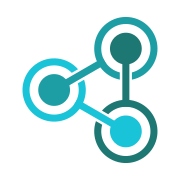
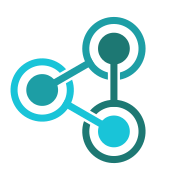
Refresh branding and docs links
Updates the Smart Checkpoints branding across the site with a new mark, refreshed SVG and PNG assets, and synchronized app/public icons. This also adds exported brand files and a short README describing the generated assets and source-of-truth workflow. The footer documentation links were updated to point at the current documentation pages for introduction, quickstart, distance drivers, and the REST API.

Changed region(s): [[0.0556, 0.0833, 0.8889, 0.9167]]

diff --git a/src/components/LogoMark.tsx b/src/components/LogoMark.tsx
@@ -33,8 +33,8 @@ const DOT_R = 11.3;
 /** The wordmark, set in the display face and flattened to outlines so it never
  *  waits on a webfont and never reflows the header. */
 const WORDMARK = [
-  { d: "M13.13 0.60Q9.69 0.60 7.06-0.64Q4.42-1.87 2.93-4.16Q1.45-6.46 1.45-9.69L1.45-10.88L6.97-10.88L6.97-9.69Q6.97-7.01 8.63-5.67Q10.29-4.33 13.13-4.33Q16.02-4.33 17.45-5.48Q18.87-6.63 18.87-8.42Q18.87-9.65 18.17-10.41Q17.47-11.18 16.13-11.67Q14.79-12.16 12.88-12.58L11.90-12.79Q8.84-13.47 6.65-14.51Q4.46-15.56 3.29-17.26Q2.13-18.96 2.13-21.68Q2.13-24.40 3.42-26.33Q4.72-28.26 7.08-29.30Q9.44-30.35 12.62-30.35Q15.81-30.35 18.30-29.26Q20.78-28.18 22.21-26.03Q23.63-23.89 23.63-20.66L23.63-19.38L18.11-19.38L18.11-20.66Q18.11-22.36 17.45-23.40Q16.79-24.44 15.56-24.93Q14.32-25.42 12.62-25.42Q10.07-25.42 8.86-24.46Q7.65-23.50 7.65-21.85Q7.65-20.74 8.22-19.98Q8.80-19.21 9.95-18.70Q11.09-18.19 12.88-17.81L13.86-17.60Q17.04-16.92 19.40-15.85Q21.76-14.79 23.08-13.05Q24.40-11.31 24.40-8.59Q24.40-5.87 23.01-3.80Q21.63-1.74 19.10-0.57Q16.58 0.60 13.13 0.60M33.49 0L28.05 0L28.05-29.75L38.46-29.75L43.61-3.83L44.37-3.83L49.51-29.75L59.92-29.75L59.92 0L54.48 0L54.48-25.63L53.72-25.63L48.62 0L39.35 0L34.25-25.63L33.49-25.63M68.77 0L62.98 0L70.81-29.75L80.58-29.75L88.40 0L82.62 0L81-6.55L70.38-6.55L68.77 0M75.31-26.22L71.70-11.73L79.69-11.73L76.08-26.22M97.07 0L91.46 0L91.46-29.75L104.38-29.75Q107.19-29.75 109.27-28.77Q111.35-27.80 112.50-26.01Q113.65-24.23 113.65-21.80L113.65-21.29Q113.65-18.62 112.37-16.96Q111.09-15.30 109.22-14.54L109.22-13.77Q110.93-13.69 111.86-12.60Q112.80-11.52 112.80-9.73L112.80 0L107.19 0L107.19-8.93Q107.19-9.95 106.65-10.58Q106.12-11.22 104.89-11.22L97.07-11.22L97.07 0M97.07-24.65L97.07-16.32L103.78-16.32Q105.78-16.32 106.91-17.40Q108.03-18.49 108.03-20.27L108.03-20.70Q108.03-22.48 106.93-23.57Q105.83-24.65 103.78-24.65M130.31 0L124.69 0L124.69-24.65L116.02-24.65L116.02-29.75L138.97-29.75L138.97-24.65L130.31-24.65", x: 110.77, y: 38.81 },
-  { d: "M14.11 0.60Q8.59 0.60 5.36-2.49Q2.13-5.57 2.13-11.31L2.13-18.45Q2.13-24.18 5.36-27.26Q8.59-30.35 14.11-30.35Q19.59-30.35 22.59-27.35Q25.59-24.35 25.59-19.12L25.59-18.87L20.06-18.87L20.06-19.30Q20.06-21.93 18.59-23.63Q17.13-25.33 14.11-25.33Q11.14-25.33 9.44-23.50Q7.74-21.68 7.74-18.53L7.74-11.22Q7.74-8.12 9.44-6.27Q11.14-4.42 14.11-4.42Q17.13-4.42 18.59-6.14Q20.06-7.86 20.06-10.46L20.06-11.22L25.59-11.22L25.59-10.62Q25.59-5.40 22.59-2.40Q19.59 0.60 14.11 0.60M35.27 0L29.66 0L29.66-29.75L35.27-29.75L35.27-17.47L46.33-17.47L46.33-29.75L51.94-29.75L51.94 0L46.33 0L46.33-12.37L35.27-12.37M76.41 0L57.03 0L57.03-29.75L76.16-29.75L76.16-24.65L62.64-24.65L62.64-17.55L74.97-17.55L74.97-12.45L62.64-12.45L62.64-5.10L76.41-5.10M91.38 0.60Q85.85 0.60 82.62-2.49Q79.39-5.57 79.39-11.31L79.39-18.45Q79.39-24.18 82.62-27.26Q85.85-30.35 91.38-30.35Q96.86-30.35 99.85-27.35Q102.85-24.35 102.85-19.12L102.85-18.87L97.33-18.87L97.33-19.30Q97.33-21.93 95.86-23.63Q94.39-25.33 91.38-25.33Q88.40-25.33 86.70-23.50Q85-21.68 85-18.53L85-11.22Q85-8.12 86.70-6.27Q88.40-4.42 91.38-4.42Q94.39-4.42 95.86-6.14Q97.33-7.86 97.33-10.46L97.33-11.22L102.85-11.22L102.85-10.62Q102.85-5.40 99.85-2.40Q96.86 0.60 91.38 0.60M112.54 0L106.93 0L106.93-29.75L112.54-29.75L112.54-17.94L113.31-17.94L122.95-29.75L130.13-29.75L117.72-15.09L130.56 0L123.17 0L113.31-12.07L112.54-12.07M138.63 0L133.03 0L133.03-29.75L145.26-29.75Q148.07-29.75 150.22-28.62Q152.36-27.50 153.57-25.46Q154.78-23.42 154.78-20.61L154.78-20.02Q154.78-17.26 153.53-15.19Q152.28-13.13 150.13-12.01Q147.99-10.88 145.26-10.88L138.63-10.88L138.63 0M138.63-24.65L138.63-15.98L144.71-15.98Q146.71-15.98 147.94-17.09Q149.18-18.19 149.18-20.10L149.18-20.53Q149.18-22.44 147.94-23.55Q146.71-24.65 144.71-24.65M169.75 0.60Q164.13 0.60 160.82-2.49Q157.50-5.57 157.50-11.31L157.50-18.45Q157.50-24.18 160.82-27.26Q164.13-30.35 169.75-30.35Q175.35-30.35 178.67-27.26Q181.98-24.18 181.98-18.45L181.98-11.31Q181.98-5.57 178.67-2.49Q175.35 0.60 169.75 0.60M169.75-4.42Q172.89-4.42 174.63-6.25Q176.38-8.08 176.38-11.14L176.38-18.62Q176.38-21.68 174.63-23.50Q172.89-25.33 169.75-25.33Q166.64-25.33 164.88-23.50Q163.12-21.68 163.12-18.62L163.12-11.14Q163.12-8.08 164.88-6.25Q166.64-4.42 169.75-4.42M192.01 0L186.41 0L186.41-29.75L192.01-29.75M202.64 0L197.12 0L197.12-29.75L207.78-29.75L213.69-3.83L214.46-3.83L214.46-29.75L219.98-29.75L219.98 0L209.31 0L203.41-25.93L202.64-25.93M237.58 0L231.97 0L231.97-24.65L223.30-24.65L223.30-29.75L246.25-29.75L246.25-24.65L237.58-24.65M259.89 0.60Q256.44 0.60 253.81-0.64Q251.17-1.87 249.69-4.16Q248.20-6.46 248.20-9.69L248.20-10.88L253.72-10.88L253.72-9.69Q253.72-7.01 255.38-5.67Q257.04-4.33 259.89-4.33Q262.78-4.33 264.20-5.48Q265.63-6.63 265.63-8.42Q265.63-9.65 264.92-10.41Q264.22-11.18 262.88-11.67Q261.55-12.16 259.63-12.58L258.65-12.79Q255.59-13.47 253.41-14.51Q251.22-15.56 250.05-17.26Q248.88-18.96 248.88-21.68Q248.88-24.40 250.18-26.33Q251.47-28.26 253.83-29.30Q256.19-30.35 259.38-30.35Q262.56-30.35 265.05-29.26Q267.54-28.18 268.96-26.03Q270.38-23.89 270.38-20.66L270.38-19.38L264.86-19.38L264.86-20.66Q264.86-22.36 264.20-23.40Q263.54-24.44 262.31-24.93Q261.08-25.42 259.38-25.42Q256.83-25.42 255.62-24.46Q254.41-23.50 254.41-21.85Q254.41-20.74 254.98-19.98Q255.55-19.21 256.70-18.70Q257.85-18.19 259.63-17.81L260.61-17.60Q263.80-16.92 266.16-15.85Q268.51-14.79 269.83-13.05Q271.15-11.31 271.15-8.59Q271.15-5.87 269.77-3.80Q268.39-1.74 265.86-0.57Q263.33 0.60 259.89 0.60", x: 110.08, y: 87.23 },
+  { d: "M13.13 0.6L13.13 0.6Q9.69 0.6 7.06-0.64Q4.42-1.87 2.93-4.17Q1.45-6.46 1.45-9.69L1.45-9.69L1.45-10.88L6.97-10.88L6.97-9.69Q6.97-7.01 8.63-5.67Q10.29-4.33 13.13-4.33L13.13-4.33Q16.02-4.33 17.45-5.48Q18.87-6.63 18.87-8.42L18.87-8.42Q18.87-9.65 18.17-10.41Q17.47-11.18 16.13-11.67Q14.79-12.16 12.88-12.58L12.88-12.58L11.9-12.79Q8.84-13.47 6.65-14.51Q4.46-15.56 3.29-17.26Q2.13-18.96 2.13-21.68L2.13-21.68Q2.13-24.4 3.42-26.33Q4.72-28.26 7.08-29.3Q9.44-30.35 12.62-30.35L12.62-30.35Q15.81-30.35 18.3-29.26Q20.78-28.18 22.21-26.03Q23.63-23.89 23.63-20.66L23.63-20.66L23.63-19.38L18.11-19.38L18.11-20.66Q18.11-22.36 17.45-23.4Q16.79-24.44 15.56-24.93Q14.32-25.42 12.62-25.42L12.62-25.42Q10.07-25.42 8.86-24.46Q7.65-23.5 7.65-21.85L7.65-21.85Q7.65-20.74 8.22-19.98Q8.8-19.21 9.95-18.7Q11.09-18.19 12.88-17.81L12.88-17.81L13.86-17.6Q17.04-16.92 19.4-15.85Q21.76-14.79 23.08-13.05Q24.4-11.31 24.4-8.59L24.4-8.59Q24.4-5.87 23.01-3.8Q21.63-1.74 19.1-0.57Q16.58 0.6 13.13 0.6M33.49 0L28.05 0L28.05-29.75L38.46-29.75L43.61-3.83L44.37-3.83L49.51-29.75L59.92-29.75L59.92 0L54.48 0L54.48-25.63L53.72-25.63L48.62 0L39.35 0L34.25-25.63L33.49-25.63L33.49 0M68.77 0L62.98 0L70.81-29.75L80.58-29.75L88.4 0L82.62 0L81-6.55L70.38-6.55L68.77 0M75.31-26.22L71.7-11.73L79.69-11.73L76.08-26.22L75.31-26.22M97.07 0L91.46 0L91.46-29.75L104.38-29.75Q107.19-29.75 109.27-28.77Q111.35-27.8 112.5-26.01Q113.65-24.23 113.65-21.8L113.65-21.8L113.65-21.29Q113.65-18.62 112.37-16.96Q111.09-15.3 109.22-14.54L109.22-14.54L109.22-13.77Q110.93-13.69 111.86-12.6Q112.8-11.52 112.8-9.73L112.8-9.73L112.8 0L107.19 0L107.19-8.93Q107.19-9.95 106.65-10.58Q106.12-11.22 104.89-11.22L104.89-11.22L97.07-11.22L97.07 0M97.07-24.65L97.07-16.32L103.78-16.32Q105.78-16.32 106.91-17.4Q108.03-18.49 108.03-20.27L108.03-20.27L108.03-20.7Q108.03-22.48 106.93-23.57Q105.83-24.65 103.78-24.65L103.78-24.65L97.07-24.65M130.31 0L124.69 0L124.69-24.65L116.02-24.65L116.02-29.75L138.97-29.75L138.97-24.65L130.31-24.65L130.31 0", x: 110.77, y: 38.81 },
+  { d: "M14.11 0.6L14.11 0.6Q8.59 0.6 5.36-2.49Q2.13-5.57 2.13-11.31L2.13-11.31L2.13-18.45Q2.13-24.18 5.36-27.26Q8.59-30.35 14.11-30.35L14.11-30.35Q19.59-30.35 22.59-27.35Q25.59-24.35 25.59-19.13L25.59-19.13L25.59-18.87L20.06-18.87L20.06-19.3Q20.06-21.93 18.59-23.63Q17.13-25.33 14.11-25.33L14.11-25.33Q11.14-25.33 9.44-23.5Q7.74-21.68 7.74-18.53L7.74-18.53L7.74-11.22Q7.74-8.12 9.44-6.27Q11.14-4.42 14.11-4.42L14.11-4.42Q17.13-4.42 18.59-6.14Q20.06-7.86 20.06-10.46L20.06-10.46L20.06-11.22L25.59-11.22L25.59-10.63Q25.59-5.4 22.59-2.4Q19.59 0.6 14.11 0.6M35.27 0L29.66 0L29.66-29.75L35.27-29.75L35.27-17.47L46.33-17.47L46.33-29.75L51.94-29.75L51.94 0L46.33 0L46.33-12.37L35.27-12.37L35.27 0M76.41 0L57.03 0L57.03-29.75L76.16-29.75L76.16-24.65L62.64-24.65L62.64-17.55L74.97-17.55L74.97-12.45L62.64-12.45L62.64-5.1L76.41-5.1L76.41 0M91.38 0.6L91.38 0.6Q85.85 0.6 82.62-2.49Q79.39-5.57 79.39-11.31L79.39-11.31L79.39-18.45Q79.39-24.18 82.62-27.26Q85.85-30.35 91.38-30.35L91.38-30.35Q96.86-30.35 99.85-27.35Q102.85-24.35 102.85-19.13L102.85-19.13L102.85-18.87L97.33-18.87L97.33-19.3Q97.33-21.93 95.86-23.63Q94.39-25.33 91.38-25.33L91.38-25.33Q88.4-25.33 86.7-23.5Q85-21.68 85-18.53L85-18.53L85-11.22Q85-8.12 86.7-6.27Q88.4-4.42 91.38-4.42L91.38-4.42Q94.39-4.42 95.86-6.14Q97.33-7.86 97.33-10.46L97.33-10.46L97.33-11.22L102.85-11.22L102.85-10.63Q102.85-5.4 99.85-2.4Q96.86 0.6 91.38 0.6M112.54 0L106.93 0L106.93-29.75L112.54-29.75L112.54-17.94L113.31-17.94L122.95-29.75L130.13-29.75L117.72-15.09L130.56 0L123.17 0L113.31-12.07L112.54-12.07L112.54 0M138.63 0L133.03 0L133.03-29.75L145.26-29.75Q148.07-29.75 150.22-28.62Q152.36-27.5 153.57-25.46Q154.78-23.42 154.78-20.61L154.78-20.61L154.78-20.02Q154.78-17.26 153.53-15.19Q152.28-13.13 150.13-12.01Q147.99-10.88 145.26-10.88L145.26-10.88L138.63-10.88L138.63 0M138.63-24.65L138.63-15.98L144.71-15.98Q146.71-15.98 147.94-17.09Q149.18-18.19 149.18-20.1L149.18-20.1L149.18-20.53Q149.18-22.44 147.94-23.55Q146.71-24.65 144.71-24.65L144.71-24.65L138.63-24.65M169.75 0.6L169.75 0.6Q164.13 0.6 160.82-2.49Q157.5-5.57 157.5-11.31L157.5-11.31L157.5-18.45Q157.5-24.18 160.82-27.26Q164.13-30.35 169.75-30.35L169.75-30.35Q175.35-30.35 178.67-27.26Q181.98-24.18 181.98-18.45L181.98-18.45L181.98-11.31Q181.98-5.57 178.67-2.49Q175.35 0.6 169.75 0.6M169.75-4.42L169.75-4.42Q172.89-4.42 174.63-6.25Q176.38-8.08 176.38-11.14L176.38-11.14L176.38-18.62Q176.38-21.68 174.63-23.5Q172.89-25.33 169.75-25.33L169.75-25.33Q166.64-25.33 164.88-23.5Q163.12-21.68 163.12-18.62L163.12-18.62L163.12-11.14Q163.12-8.08 164.88-6.25Q166.64-4.42 169.75-4.42M192.01 0L186.41 0L186.41-29.75L192.01-29.75L192.01 0M202.64 0L197.12 0L197.12-29.75L207.78-29.75L213.69-3.83L214.46-3.83L214.46-29.75L219.98-29.75L219.98 0L209.31 0L203.41-25.93L202.64-25.93L202.64 0M237.58 0L231.97 0L231.97-24.65L223.3-24.65L223.3-29.75L246.25-29.75L246.25-24.65L237.58-24.65L237.58 0M259.89 0.6L259.89 0.6Q256.44 0.6 253.81-0.64Q251.17-1.87 249.69-4.17Q248.2-6.46 248.2-9.69L248.2-9.69L248.2-10.88L253.72-10.88L253.72-9.69Q253.72-7.01 255.38-5.67Q257.04-4.33 259.89-4.33L259.89-4.33Q262.78-4.33 264.2-5.48Q265.63-6.63 265.63-8.42L265.63-8.42Q265.63-9.65 264.92-10.41Q264.22-11.18 262.88-11.67Q261.55-12.16 259.63-12.58L259.63-12.58L258.65-12.79Q255.59-13.47 253.41-14.51Q251.22-15.56 250.05-17.26Q248.88-18.96 248.88-21.68L248.88-21.68Q248.88-24.4 250.18-26.33Q251.47-28.26 253.83-29.3Q256.19-30.35 259.38-30.35L259.38-30.35Q262.56-30.35 265.05-29.26Q267.54-28.18 268.96-26.03Q270.38-23.89 270.38-20.66L270.38-20.66L270.38-19.38L264.86-19.38L264.86-20.66Q264.86-22.36 264.2-23.4Q263.54-24.44 262.31-24.93Q261.08-25.42 259.38-25.42L259.38-25.42Q256.83-25.42 255.62-24.46Q254.41-23.5 254.41-21.85L254.41-21.85Q254.41-20.74 254.98-19.98Q255.55-19.21 256.7-18.7Q257.85-18.19 259.63-17.81L259.63-17.81L260.61-17.6Q263.8-16.92 266.16-15.85Q268.51-14.79 269.83-13.05Q271.15-11.31 271.15-8.59L271.15-8.59Q271.15-5.87 269.77-3.8Q268.39-1.74 265.86-0.57Q263.33 0.6 259.89 0.6", x: 110.08, y: 87.23 },
 ] as const;
 
 type Tone = "brand" | "current";

diff --git a/src/lib/site.ts b/src/lib/site.ts
@@ -113,10 +113,18 @@ export const footerColumns: FooterColumn[] = [
   {
     title: "Documentation",
     links: [
-      { label: "Overview", href: site.docs, external: true },
-      { label: "Distance drivers", href: site.docs, external: true },
-      { label: "Data model", href: site.docs, external: true },
-      { label: "Deployment", href: site.docs, external: true },
+      { label: "Introduction", href: site.docs, external: true },
+      { label: "Quickstart", href: `${site.docs}/quickstart`, external: true },
+      {
+        label: "Distance drivers",
+        href: `${site.docs}/concepts/distance-drivers`,
+        external: true,
+      },
+      {
+        label: "REST API",
+        href: `${site.docs}/reference/rest-api`,
+        external: true,
+      },
     ],
   },
   {

diff --git a/brand/README.md b/brand/README.md
@@ -1,0 +1,31 @@
+# Brand exports
+
+Raster copies of the mark and the lockup, for the places that cannot take an
+SVG: GitHub, social profiles, slide decks.
+
+Nothing here is drawn by hand. It is all generated from the geometry in
+`../src/components/LogoMark.tsx`, so the source of truth stays in one place.
+These files are not served by the site; `public/` holds what the site itself
+uses.
+
+| File | Size | Where it goes |
+| --- | --- | --- |
+| `avatar-512.png` | 512x512 | GitHub organisation and repository avatars |
+| `avatar-1024.png` | 1024x1024 | anywhere that wants a larger upload |
+| `avatar-512-transparent.png` | 512x512 | avatars on a surface that is not white |
+| `avatar.svg` | vector | the source the three avatars are cut from |
+| `social-preview-1280x640.png` | 1280x640 | GitHub repository social preview |
+| `lockup-1600.png` | 1600 wide | README headers, slides |
+
+## Why the avatar has that much padding
+
+Every extreme point of the mark sits on a single circle: 34 units out to a node
+centre plus the 22.5 unit ring. The avatar square is centred on that circle and
+the mark covers 70% of it, so the figure survives being cropped to a circle,
+which is what most platforms do, without losing a ring.
+
+## Regenerating
+
+The avatars come from the same square as `src/app/icon.svg`, at a wider
+coverage. Change the geometry in `LogoMark.tsx` and these need re-exporting to
+match.

diff --git a/README.md b/README.md
@@ -1,4 +1,4 @@
-# web
+# Smart Checkpoints Website
 
 The Smart Checkpoints landing page. One page: the problem, how the system
 works, the architecture, the repositories, and a downloads placeholder.
